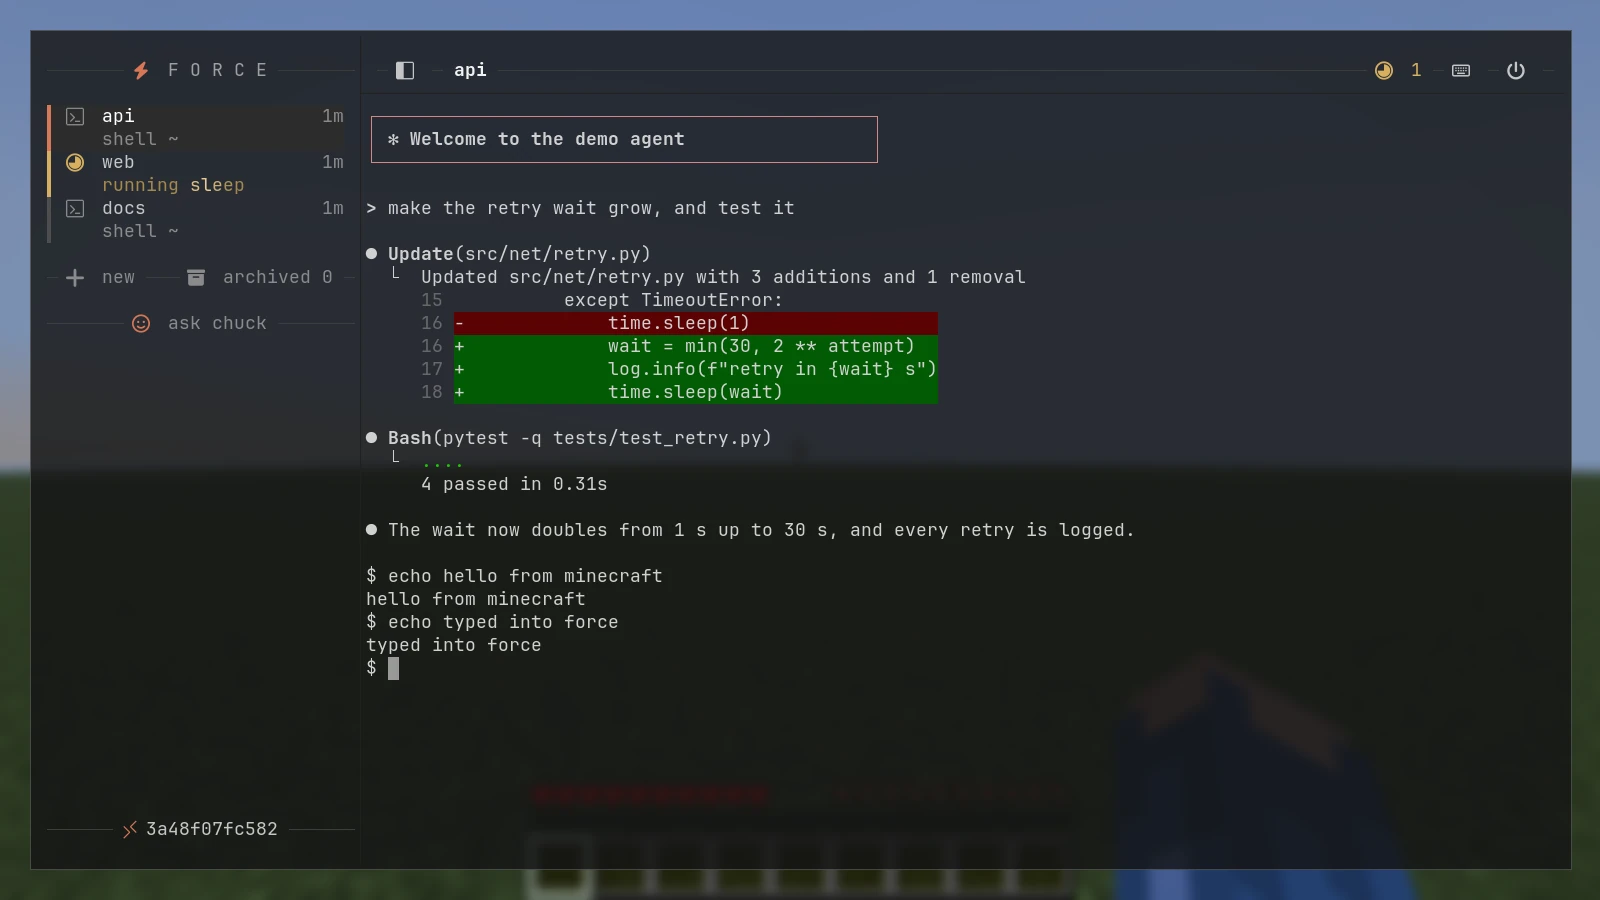
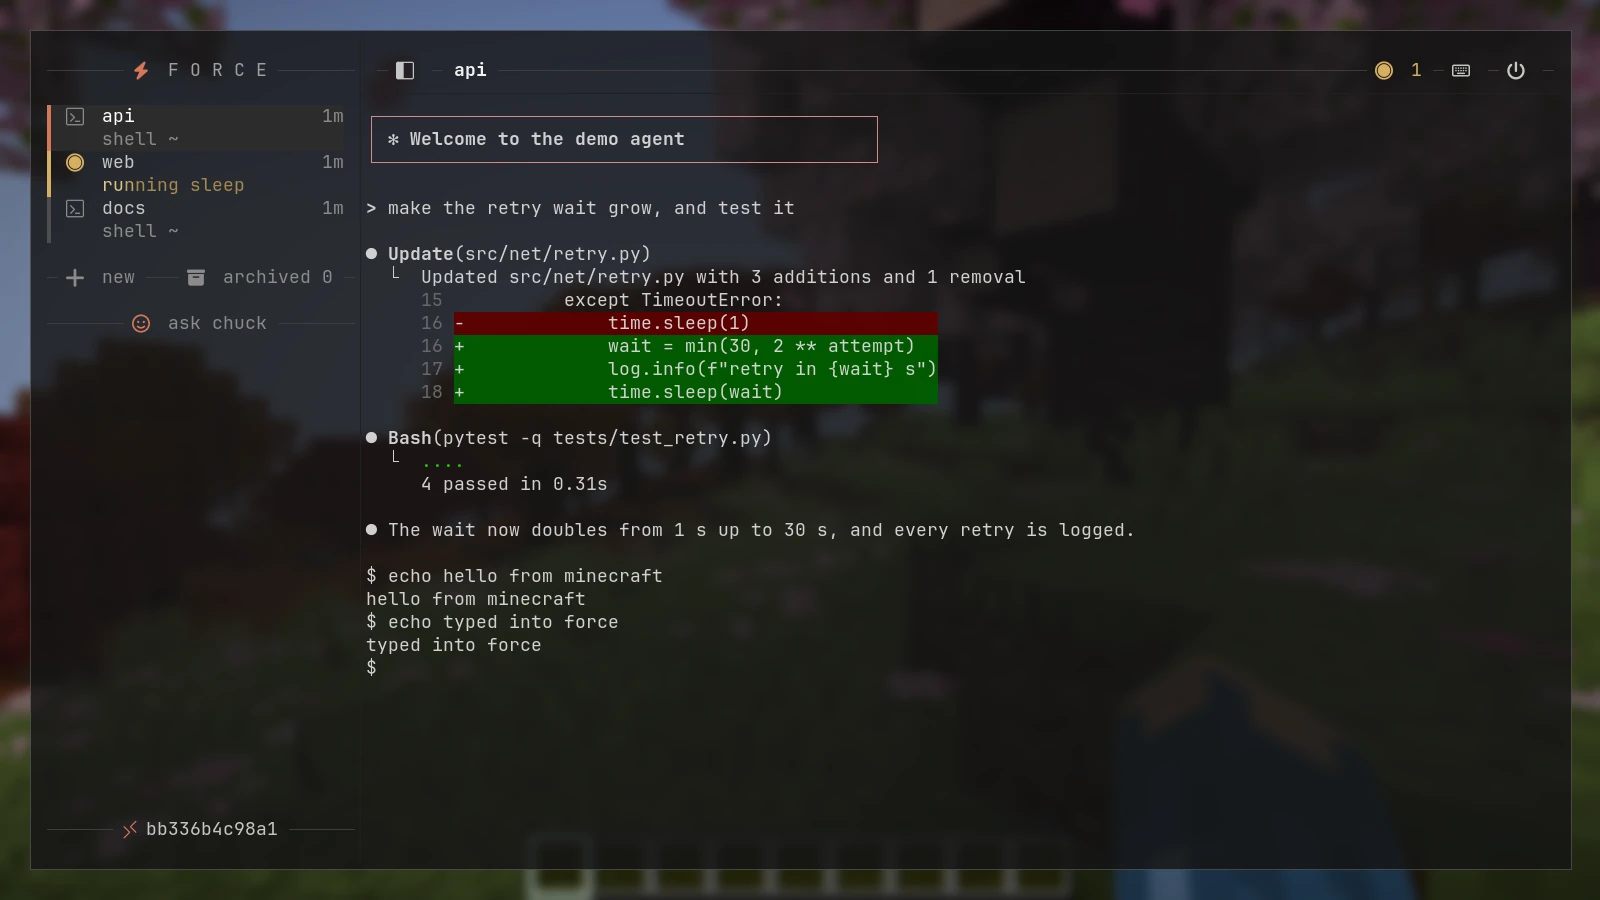
docs: README pictures in a cherry grove, first person
The game tests' world is a real one (fixed seed, creative): the player stands on the ground by
the nearest cherry grove on a clear morning, facing the trees, and only their arm shows.

diff --git a/src/gametest/java/cc/useforce/mc/ConsoleGameTest.java b/src/gametest/java/cc/useforce/mc/ConsoleGameTest.java
@@ -7,6 +7,7 @@ import com.mojang.blaze3d.platform.InputConstants;
 import net.fabricmc.fabric.api.client.gametest.v1.FabricClientGameTest;
 import net.fabricmc.fabric.api.client.gametest.v1.context.ClientGameTestContext;
 import net.fabricmc.fabric.api.client.gametest.v1.context.TestSingleplayerContext;
+import net.minecraft.client.gui.screens.worldselection.WorldCreationUiState;
 import net.minecraft.client.input.KeyEvent;
 
 /**
@@ -19,8 +20,13 @@ public class ConsoleGameTest implements FabricClientGameTest {
     @Override
     public void runTest(ClientGameTestContext ctx) {
         ctx.getInput().resizeWindow(1600, 900);
-        try (TestSingleplayerContext world = ctx.worldBuilder().create()) {
+        try (TestSingleplayerContext world = ctx.worldBuilder().setUseConsistentSettings(false).adjustSettings(w -> {
+            w.setSeed(SEED);
+            w.setGameMode(WorldCreationUiState.SelectedGameMode.CREATIVE);
+            w.setAllowCommands(true);
+        }).create()) {
             world.getConnection().waitForChunksRender();
+            scenery(ctx, world);
             ForceClient mod = ForceClient.instance();
             ctx.waitFor(mc -> mod.model().status() == ForceModel.Status.CONNECTED
                     && mod.model().state().live().size() >= 3, 20 * 60);
@@ -32,6 +38,38 @@ public class ConsoleGameTest implements FabricClientGameTest {
             settings(ctx, mod);
             combination(ctx, mod);
         }
+    }
+
+    /** A real world for the README's pictures: this seed's nearest cherry grove, a clear morning. */
+    private static final String SEED = "useforce";
+
+    private static void scenery(ClientGameTestContext ctx, TestSingleplayerContext world) {
+        // the ground (not the treetops) next to this seed's nearest cherry grove
+        net.minecraft.core.BlockPos spot = world.getServer().computeOnServer(server -> {
+            var level = server.overworld();
+            var found = level.findClosestBiome3d(b -> b.is(net.minecraft.world.level.biome.Biomes.CHERRY_GROVE),
+                    net.minecraft.core.BlockPos.ZERO, 6400, 32, 64);
+            if (found == null) return null;
+            int x = found.getFirst().getX() + 1, z = found.getFirst().getZ();
+            level.getChunk(x >> 4, z >> 4);                                            // generated, for its heights
+            int y = level.getHeight(net.minecraft.world.level.levelgen.Heightmap.Types.MOTION_BLOCKING_NO_LEAVES, x, z);
+            return new net.minecraft.core.BlockPos(x, y, z);
+        });
+        System.err.println("SCENERY " + spot);
+        for (String c : new String[]{"gamerule sendCommandFeedback false", "gamerule send_command_feedback false",
+                "weather clear", "time set 1500", "gamerule doDaylightCycle false",
+                "gamerule advance_time false", "gamerule doWeatherCycle false", "gamerule advance_weather false"}) {
+            try {
+                world.getServer().runCommand(c);
+            } catch (RuntimeException | AssertionError e) {
+                // the rule's name differs between versions: one of each pair works
+            }
+        }
+        if (spot != null)                                                              // facing the cherry trees
+            world.getServer().runCommand("tp @a " + (spot.getX() + 0.5) + " " + spot.getY() + " " + (spot.getZ() + 0.5) + " 135 2");
+        ctx.waitTicks(40);
+        world.getConnection().waitForChunksRender();
+        ctx.waitTicks(20);
     }
 
     /** The session view (native list + one session's terminal, cells mode). */
@@ -122,11 +160,8 @@ public class ConsoleGameTest implements FabricClientGameTest {
 
         ctx.getInput().pressKey(InputConstants.KEY_F12);
         ctx.waitFor(mc -> mc.gui.screen() == null, 20 * 5);
-        // seen from the front, for the README: the player and the list beside them
-        ctx.runOnClient(mc -> mc.options.setCameraType(net.minecraft.client.CameraType.THIRD_PERSON_FRONT));
         ctx.waitTicks(10);
         ctx.takeScreenshot("7-game-screen-active-only");
-        ctx.runOnClient(mc -> mc.options.setCameraType(net.minecraft.client.CameraType.FIRST_PERSON));
     }
 
     /** The settings (Mod Menu's Configure, or a key): see-through glass, padding, the list elsewhere. */

diff --git a/src/gametest/java/cc/useforce/mc/gametest/DefaultSkinMixin.java b/src/gametest/java/cc/useforce/mc/gametest/DefaultSkinMixin.java
@@ -12,7 +12,7 @@ import org.spongepowered.asm.mixin.injection.callback.CallbackInfoReturnable;
 
 import java.util.UUID;
 
-/** The game tests' offline player wears the maintainer's skin (slim arms) in the README's pictures. Tests only. */
+/** The game tests' offline player has the maintainer's arms (slim, in their skin) in the README's pictures. Tests only. */
 @Mixin(DefaultPlayerSkin.class)
 public abstract class DefaultSkinMixin {
     private static final PlayerSkin README = PlayerSkin.insecure(

diff --git a/README.md b/README.md
@@ -62,7 +62,7 @@ you installed: nothing is sent anywhere else.
   key can be a combination, set in Minecraft's own Controls.
 
 <p align="center">
-  <img src=".github/assets/list.webp" alt="A player on the game screen, Force's list beside them: one session, web, working" width="49%">
+  <img src=".github/assets/list.webp" alt="The game screen with Force's list on the right: one session, web, working" width="49%">
   <img src=".github/assets/settings.webp" alt="The mod's settings: background, padding, blur and text size for Force's view; background, position and length for the session list; toasts" width="49%">
 </p>
 
